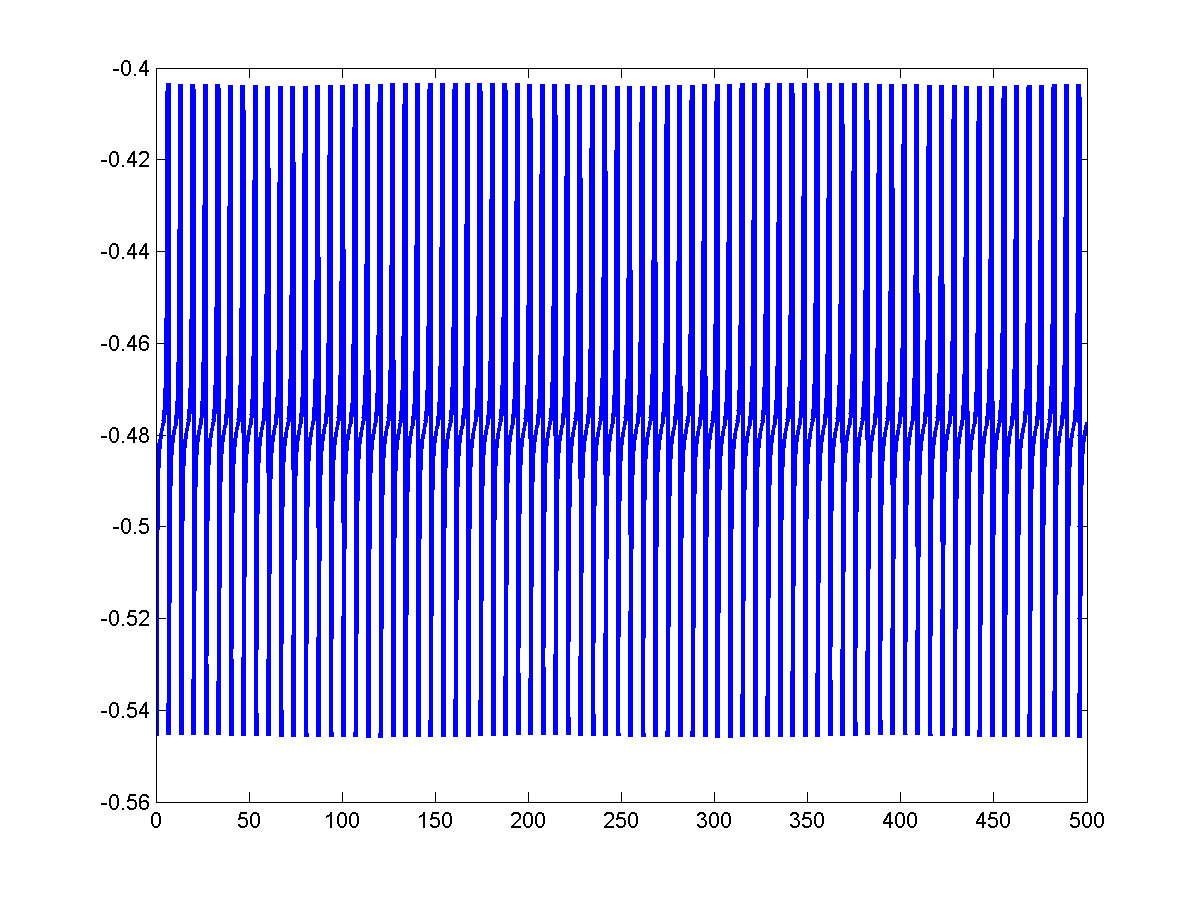
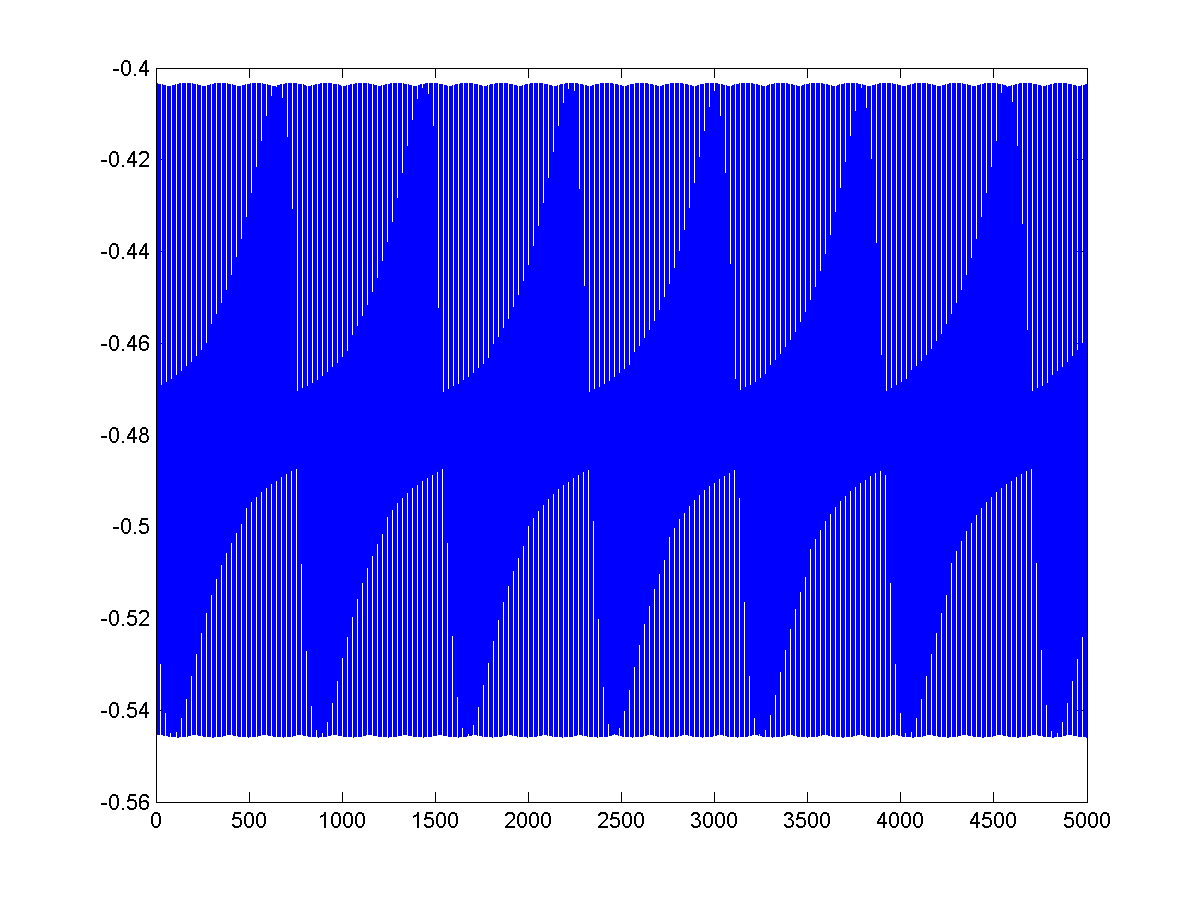
good chances

diff --git a/devoir4/matlab/Q.m b/devoir4/matlab/Q.m
@@ -3,7 +3,7 @@ function Q(num, method)
 if num == 1
     q_0 = [0.4; 0];
     p_0 = [0; 2];
-    n = 10000;
+    n = 100000;
     if strncmp(method, 'symplectique', 12)
         h = 5e-2;
     else
@@ -43,23 +43,23 @@ elseif strcmp(method, 'symplectique2')
 end
 toc()
 figure();
-plot(q(1,:), q(2,:), 'linewidth', 1);
+plot(q(1,:), q(2,:), 'linewidth', 0.5);
 xlabel('x');
 ylabel('y');
 if num == 2
     hold on;
-    plot(q(3,:), q(4,:), 'r', 'linewidth', 1);
+    plot(q(3,:), q(4,:), 'r', 'linewidth', 0.5);
     legend('q_1', 'q_2');
 end
 saveas(gcf, sprintf('../images/Q%d_%s_q', num, method), 'png');
 
 figure();
-plot(p(1,:), p(2,:), 'linewidth', 1);
+plot(p(1,:), p(2,:), 'linewidth', 0.5);
 xlabel('x');
 ylabel('y');
 if num == 2
     hold on;
-    plot(p(3,:), p(4,:), 'r', 'linewidth', 1);
+    plot(p(3,:), p(4,:), 'r', 'linewidth', 0.5);
     legend('p_1', 'p_2');
 end
 saveas(gcf, sprintf('../images/Q%d_%s_p', num, method), 'png');
@@ -70,6 +70,6 @@ xlabel('temps');
 for i = 1:n+1
     h(i) = H(q(:,i), p(:,i));
 end
-plot(t, h, 'linewidth', 2);
+plot(t, h, 'linewidth', 0.5);
 saveas(gcf, sprintf('../images/Q%d_%s_H', num, method), 'png');
 end
